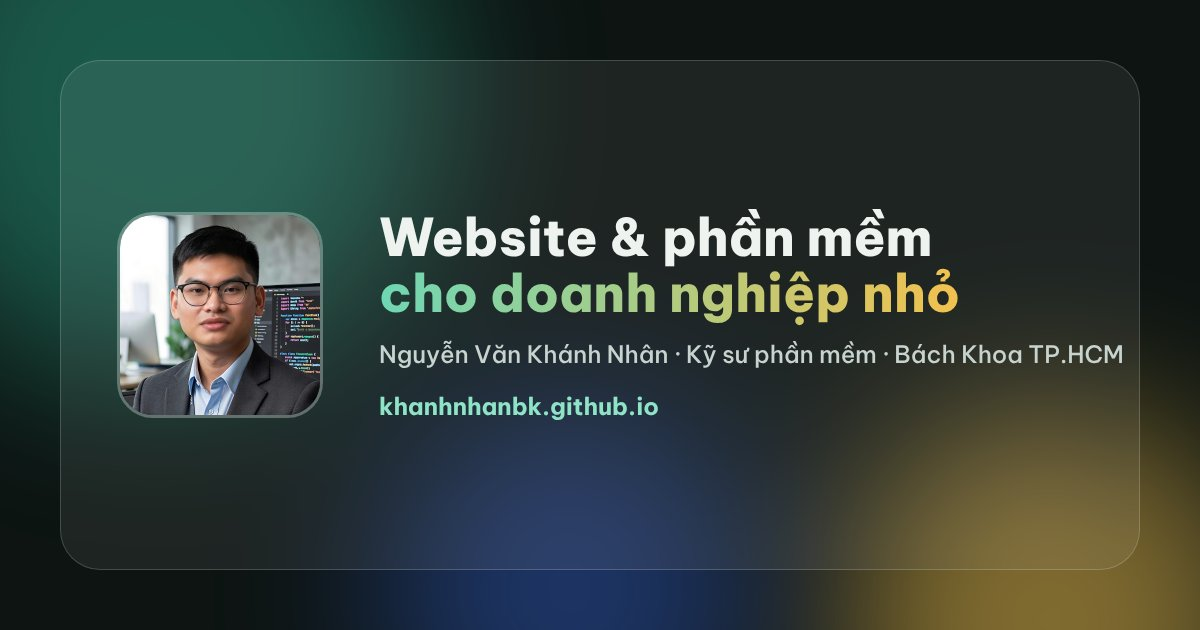
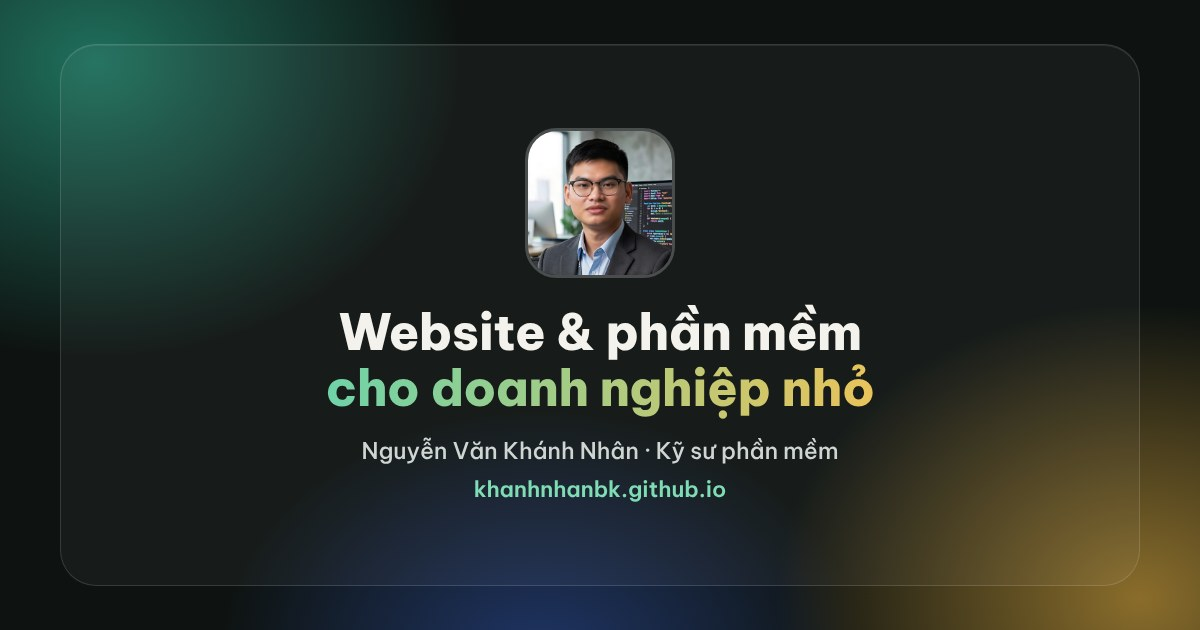
Ảnh xem trước: dồn nội dung vào ô vuông giữa để Facebook không cắt mất (#9)
Facebook (bình luận, Messenger) và Zalo cắt og:image thành ô vuông 630×630
ở giữa, nên ảnh cũ (ảnh đại diện bên trái, chữ dàn ngang) chỉ còn một mẩu.
Vẽ lại og.jpg với mọi nội dung nằm trong ô giữa, lưu nguồn ở scripts/og/,
thêm ?v=2 để buộc lấy ảnh mới, thêm og:image:type và og:image:alt.

Claude-Session: https://claude.ai/code/session_017o6Hfr2VkNZMXTBoMJRbrk

diff --git a/scripts/og/og.html b/scripts/og/og.html
@@ -1,0 +1,36 @@
+<!doctype html>
+<!-- Nguồn của public/og.jpg (1200×630). Chạy: node scripts/og/make-og.mjs
+     LUẬT: mọi chữ + ảnh chính nằm trong ô vuông 630×630 ở giữa (x 285–915),
+     vì Facebook (bình luận, Messenger, Zalo) cắt ảnh thành ô vuông giữa. -->
+<html lang="vi"><head><meta charset="utf-8">
+<link href="https://fonts.googleapis.com/css2?family=Be+Vietnam+Pro:wght@500;600;800&display=swap" rel="stylesheet">
+<style>
+  *{margin:0;box-sizing:border-box}
+  body{width:1200px;height:630px;overflow:hidden;font-family:'Be Vietnam Pro',sans-serif;color:#f4f2ec;
+    background:
+      radial-gradient(520px 420px at 8% 10%, #1f6f5c 0%, transparent 70%),
+      radial-gradient(520px 420px at 95% 95%, #8a6d2b 0%, transparent 70%),
+      radial-gradient(460px 360px at 45% 105%, #1f3566 0%, transparent 70%),
+      #0e1311}
+  .the{position:absolute;inset:44px 60px;border-radius:36px;background:rgba(255,255,255,.04);
+    border:1px solid rgba(255,255,255,.14);box-shadow:inset 0 1px 0 rgba(255,255,255,.08)}
+  .giua{position:absolute;left:285px;top:0;width:630px;height:630px;display:flex;flex-direction:column;
+    align-items:center;justify-content:center;text-align:center;padding:0 24px}
+  img{width:150px;height:150px;border-radius:32px;object-fit:cover;border:3px solid rgba(255,255,255,.22);margin-bottom:26px}
+  h1{font-size:50px;white-space:nowrap;line-height:1.12;font-weight:800;letter-spacing:-.5px}
+  h1 span{background:linear-gradient(90deg,#6fd3a8,#e9c35a);-webkit-background-clip:text;color:transparent}
+  p{margin-top:20px;font-size:23px;font-weight:500;color:#cfd6d2}
+  .url{margin-top:10px;font-size:22px;font-weight:600;color:#7fdcb4}
+  .khung{position:absolute;left:285px;top:0;width:630px;height:630px;outline:2px dashed red;display:none}
+  body.kiem .khung{display:block}
+</style></head>
+<body>
+  <div class="the"></div>
+  <div class="giua">
+    <img src="../../public/avatar.jpg" alt="">
+    <h1>Website &amp; phần mềm<br><span>cho doanh nghiệp nhỏ</span></h1>
+    <p>Nguyễn Văn Khánh Nhân · Kỹ sư phần mềm</p>
+    <div class="url">khanhnhanbk.github.io</div>
+  </div>
+  <div class="khung"></div>
+</body></html>

diff --git a/README.md b/README.md
@@ -16,6 +16,6 @@ pnpm build      # ra thư mục dist/
 - Chữ tiếng Việt: `src/data/vi.json`, tiếng Anh: `src/data/en.json`
 - Zalo, email, điện thoại: `src/data/lien-he.json`
 - Màu, kính mờ: `src/styles/global.css`
-- Ảnh xem trước khi chia sẻ link: `public/og.jpg` (1200×630)
+- Ảnh xem trước khi chia sẻ link: `public/og.jpg` (1200×630), vẽ từ `scripts/og/og.html` bằng `NODE_PATH=$(npm root -g) node scripts/og/make-og.mjs --kiem`. **Luật:** chữ và ảnh chính phải nằm trong ô vuông 630×630 ở giữa (x 285–915), vì Facebook (bình luận, Messenger) và Zalo cắt ảnh thành ô vuông giữa. Vẽ lại thì tăng `?v=` của og.jpg trong `src/layouts/Base.astro`.
 
 Kế hoạch các bước: [docs/KE-HOACH.md](docs/KE-HOACH.md).
